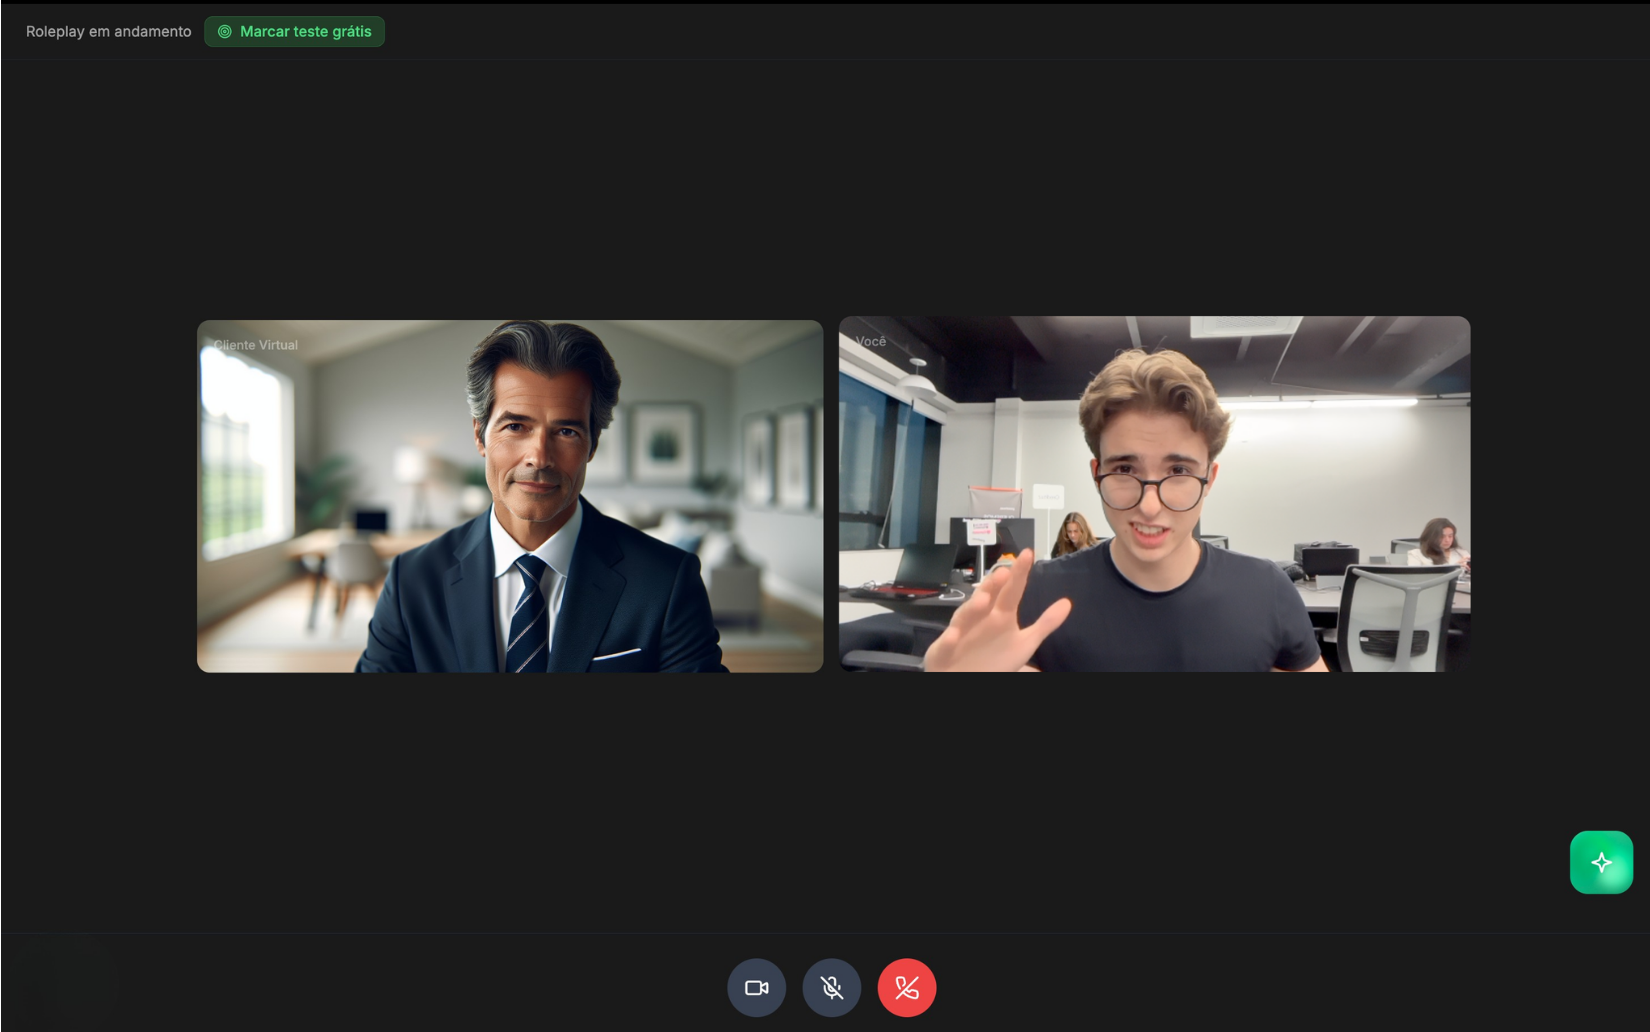
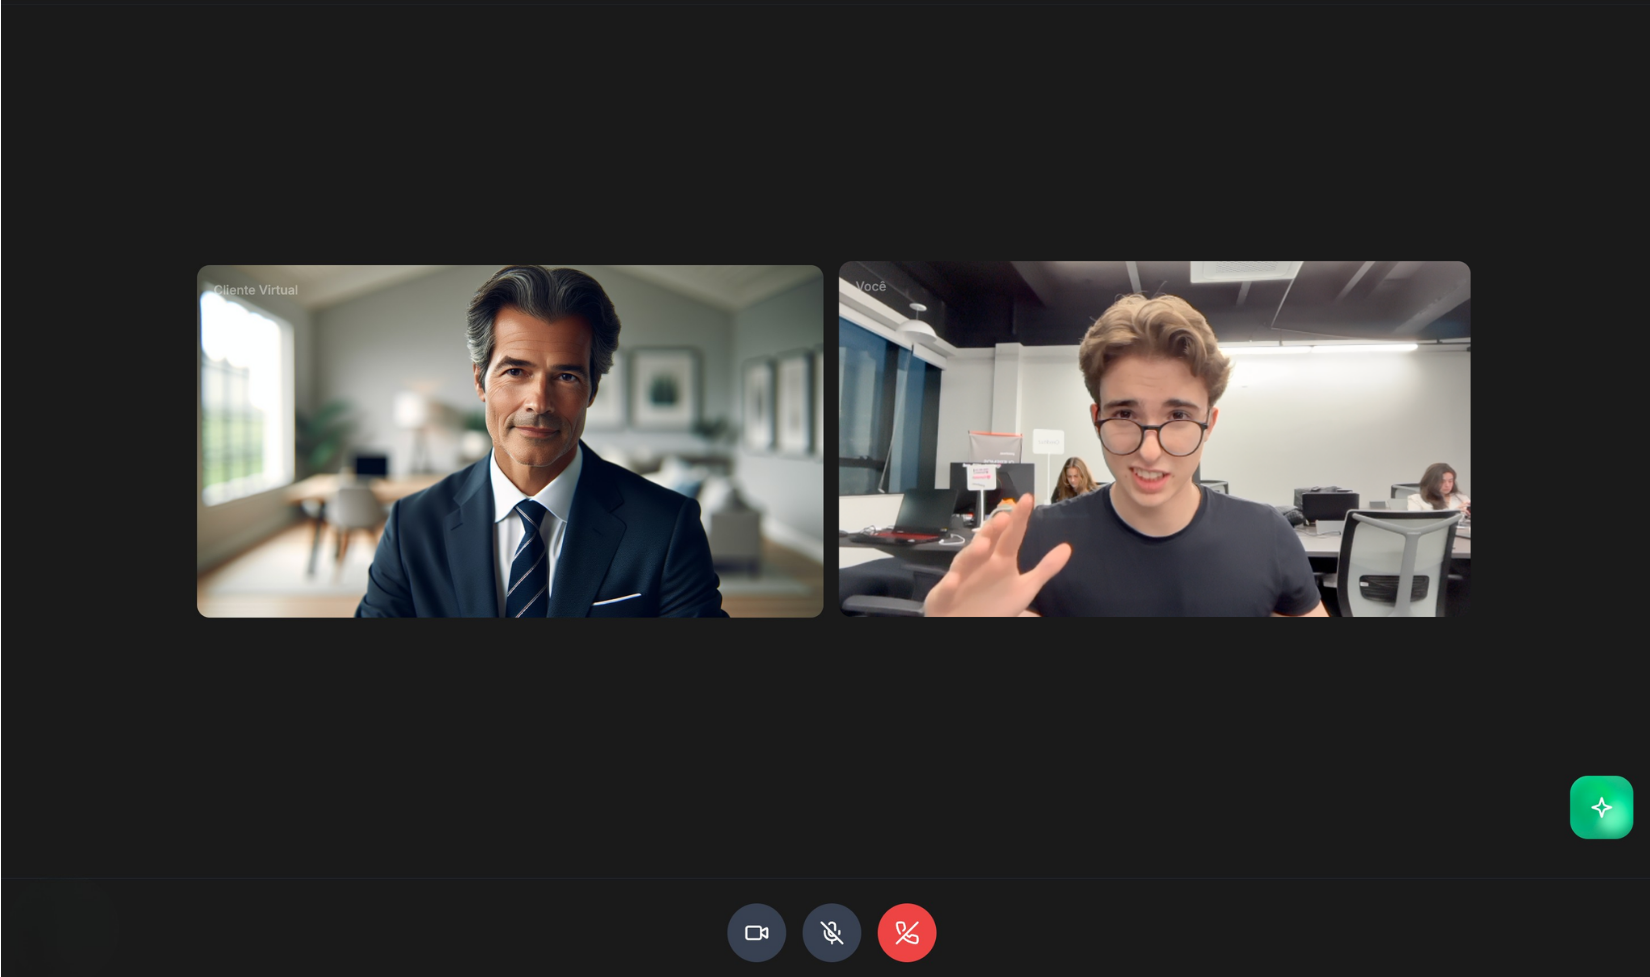
style: enhance layout and typography across components
- Updated font size in globals.css for improved readability.
- Adjusted layout properties in the Home component to ensure maximum width and center alignment.
- Refined translation offsets in the Features component for better visual alignment.

These changes aim to enhance the overall user experience and visual consistency across the application.

diff --git a/src/components/Features.tsx b/src/components/Features.tsx
@@ -9,7 +9,7 @@ export default function Features() {
         {/* Simulação de vendas */}
         <div className="flex flex-col lg:flex-row items-center gap-12 lg:gap-16 relative">
           {/* Image - Left */}
-          <div className="flex-1 w-full lg:translate-x-[-9.4vw] xl:translate-x-[-14vw]">
+          <div className="flex-1 w-full lg:translate-x-[-1vw] xl:translate-x-[-3vw]">
             <div className="rounded-2xl overflow-hidden border border-gray-200/50" style={{ boxShadow: "0 25px 80px -12px rgba(0, 0, 0, 0.25), 0 12px 35px -8px rgba(0, 0, 0, 0.15), 0 0 0 1px rgba(0, 0, 0, 0.05)" }}>
               <img
                 src="/images/roleplay.png.png"
@@ -69,7 +69,7 @@ export default function Features() {
           </div>
 
           {/* Video - Right */}
-          <div className="flex-1 w-full max-w-[500px] lg:translate-x-[9.4vw] xl:translate-x-[14vw] lg:mt-16">
+          <div className="flex-1 w-full max-w-[500px] lg:ml-auto lg:mt-16">
             <div className="rounded-2xl overflow-hidden border border-gray-200/50" style={{ boxShadow: "0 25px 80px -12px rgba(0, 0, 0, 0.25), 0 12px 35px -8px rgba(0, 0, 0, 0.15), 0 0 0 1px rgba(0, 0, 0, 0.05)" }}>
               <video
                 ref={(el) => { if (el) el.playbackRate = 1; }}

diff --git a/src/app/page.tsx b/src/app/page.tsx
@@ -12,7 +12,7 @@ import GridBeam from "@/components/GridBeam";
 export default function Home() {
   return (
     <GridBeam className="min-h-screen">
-      <main className="bg-bg-main/80 min-h-screen space-y-[1px] relative z-10">
+      <main className="bg-bg-main/80 min-h-screen space-y-[1px] relative z-10 max-w-[1920px] mx-auto">
         <Navbar />
         <Hero />
         <LogoBar />

diff --git a/src/app/globals.css b/src/app/globals.css
@@ -26,7 +26,7 @@
   html {
     scroll-behavior: smooth;
     overflow-x: hidden;
-
+    font-size: clamp(16px, 1.1vw, 20px);
   }
 
   body {
